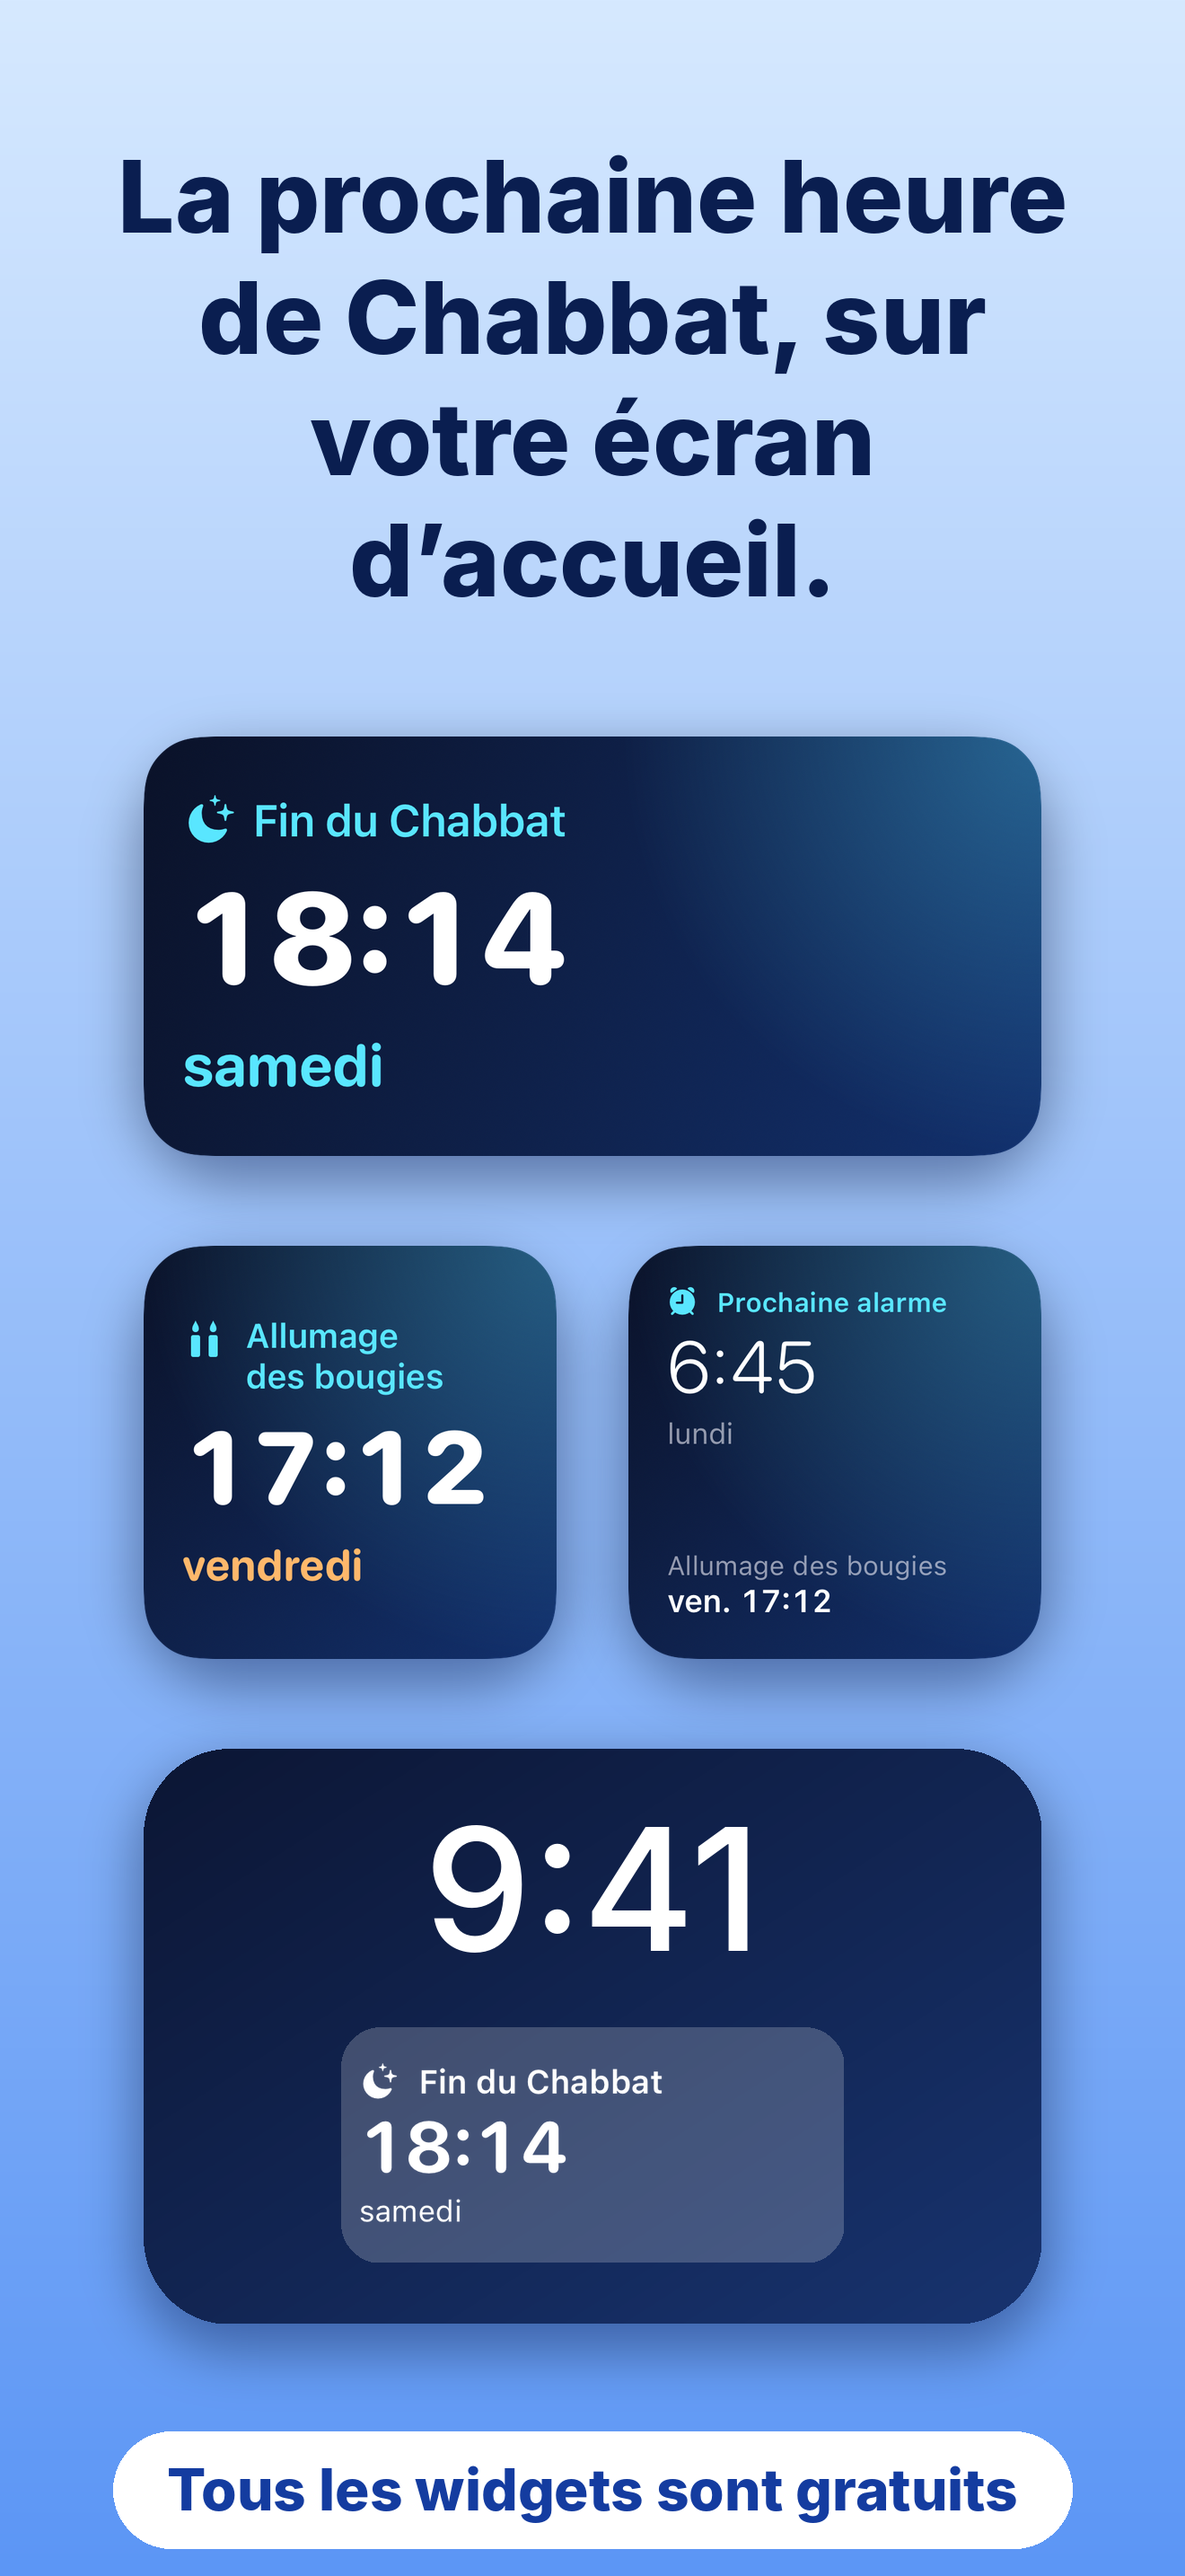
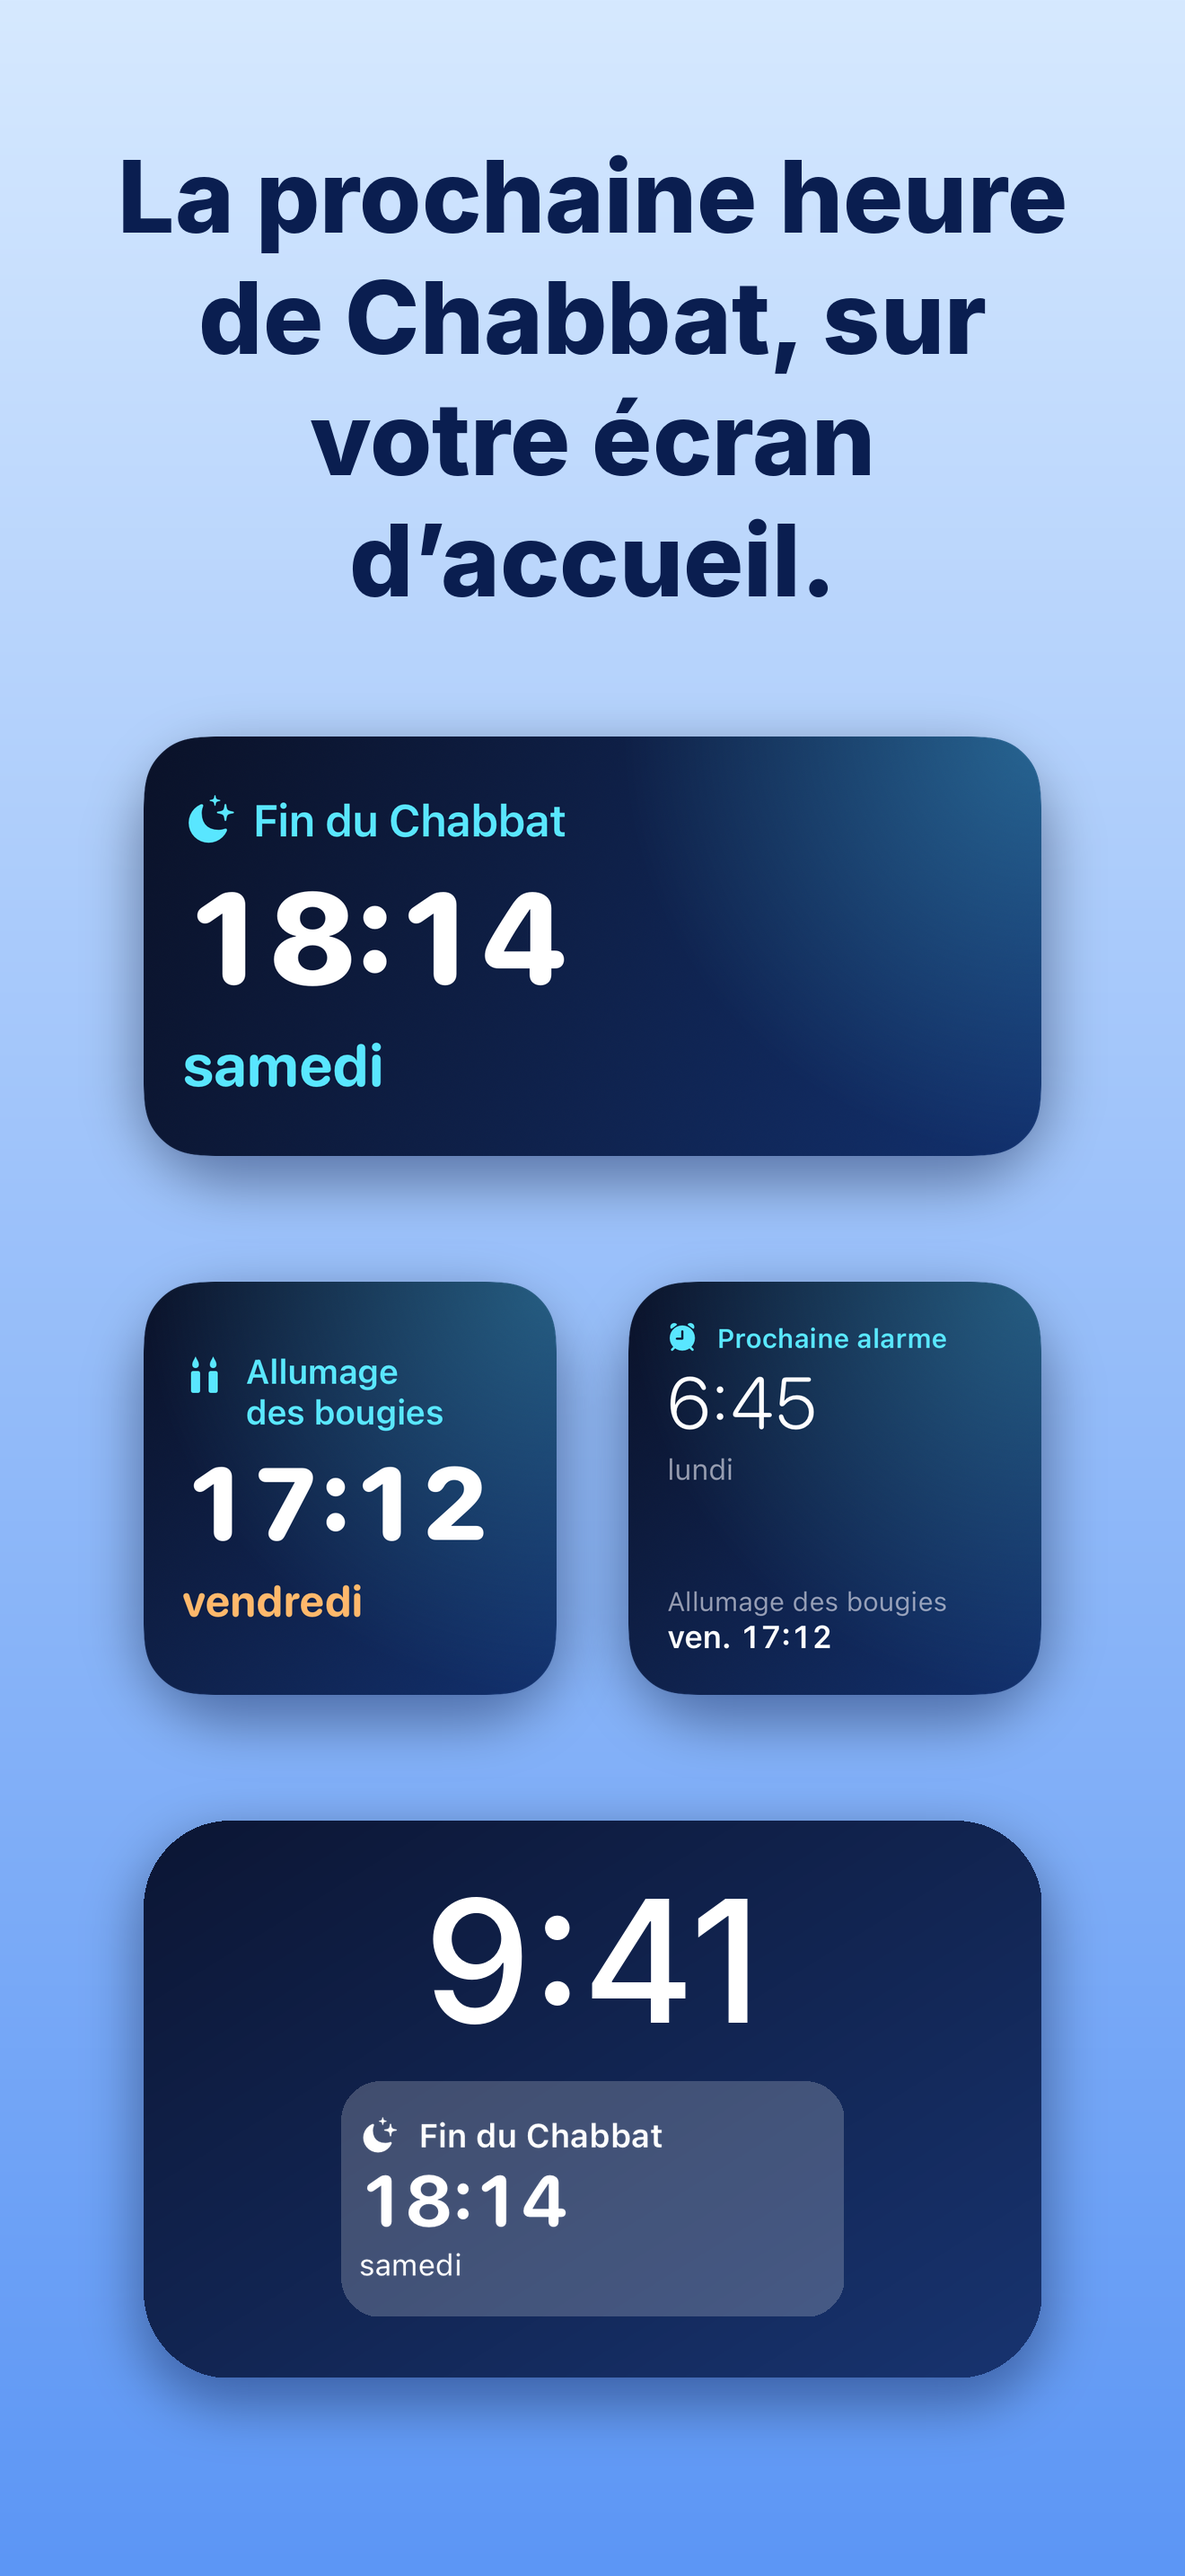
Widgets image: no 'free' line; steadier layout for long headlines
Claude-Session: https://claude.ai/code/session_018mNNLrUYEMxoes3VVLDkTC

Changed region(s): [[0.0932, 0.4655, 0.9008, 0.993]]

diff --git a/Scripts/appstore_images/compose_widgets.py b/Scripts/appstore_images/compose_widgets.py
@@ -44,16 +44,16 @@ def make(lang):
         w = d.textlength(line, font=font, **kw)
         d.text(((W - w) / 2, y), line, font=font, fill=(10, 30, 80), **({"direction": "rtl", "language": "he"} if rtl else {}))
         y += 135
-    top = y + 130
+    top = y + 130 + (4 - len(lines)) * 55
     med = load(lang, "medium-ends", 1000)
     img = shadowed(img, med, (W - 1000) // 2, top, 96)
-    r2 = top + med.height + 100
+    r2 = top + med.height + 140
     smalls = [load(lang, "small-candle", 460), load(lang, "small-home", 460)]
     if rtl: smalls.reverse()
     for i, s in enumerate(smalls):
         img = shadowed(img, s, 160 + i * (460 + 80), r2, 96)
-    ly = r2 + 460 + 100
-    lw, lh = 1000, 640
+    ly = r2 + 460 + 140
+    lw, lh = 1000, 620
     tile = Image.new("RGBA", (lw, lh), (0, 0, 0, 0))
     g = Image.new("RGBA", (lw, lh)); gp = g.load()
     for yy in range(lh):
@@ -70,16 +70,8 @@ def make(lang):
     plate = Image.new("RGBA", (rect.width + 40, rect.height + 30), (0, 0, 0, 0))
     ImageDraw.Draw(plate).rounded_rectangle((0, 0, plate.width, plate.height), 44, fill=(255, 255, 255, 52))
     plate.alpha_composite(rect, (20, 15))
-    tile.alpha_composite(plate, ((lw - plate.width) // 2, 310))
+    tile.alpha_composite(plate, ((lw - plate.width) // 2, 290))
     img = shadowed(img, tile, (W - lw) // 2, ly, 96)
-    pill = PILL[lang]
-    pf = ImageFont.truetype(HEB if rtl else INTER, 64)
-    kw2 = dict(direction="rtl", language="he") if rtl else {}
-    tw = d.textlength(pill, font=pf, **kw2)
-    d = ImageDraw.Draw(img)
-    py = ly + lh + 120
-    d.rounded_rectangle(((W - tw) / 2 - 60, py, (W + tw) / 2 + 60, py + 130), 65, fill=(255, 255, 255, 235))
-    d.text(((W - tw) / 2, py + 26), pill, font=pf, fill=(20, 60, 160), **kw2)
     img.convert("RGB").save(os.path.join(OUT, f"{lang}-6-widgets.png"))
 
 for lang in TITLE: make(lang)
